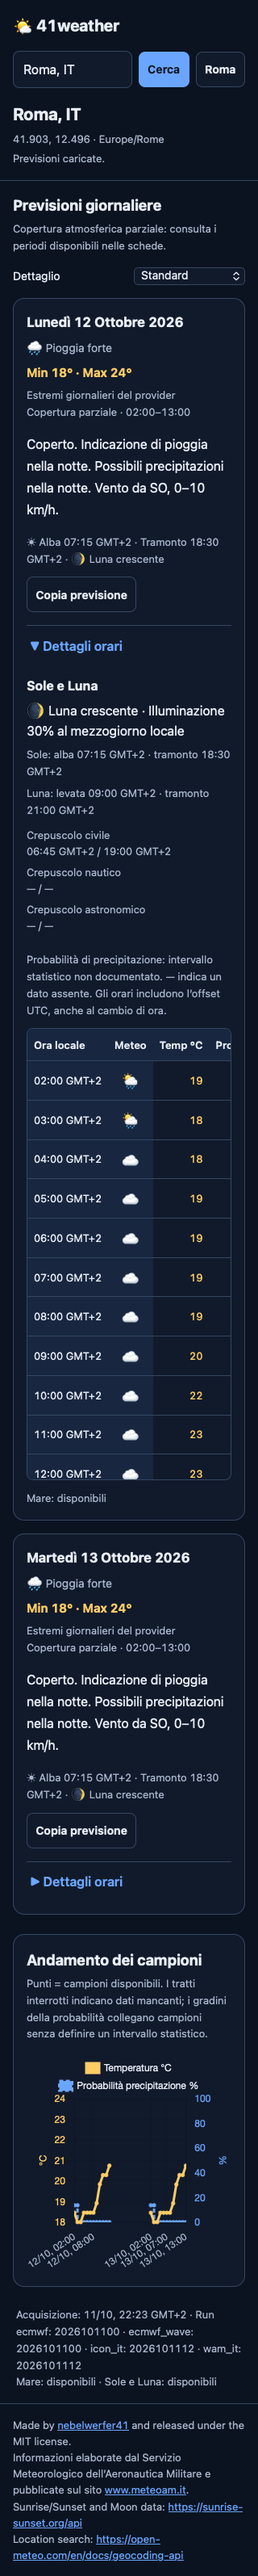
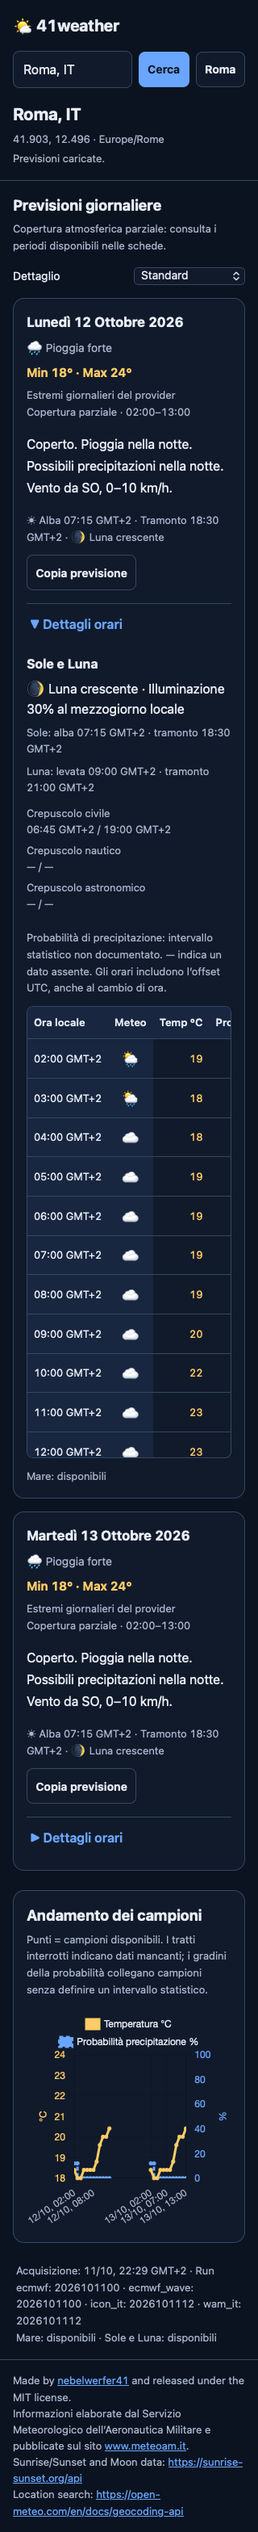
Use direct phenomenon names and combine compatible forecast facts

diff --git a/tests/forecast-text.test.js b/tests/forecast-text.test.js
@@ -51,17 +51,17 @@ test('probability alone does not invent precipitation type, accumulation or dail
 test('all significant phenomena survive every level, including low or absent probability', () => {
     for (const [code, label] of [['10', 'temporale'], ['12', 'pioggia congelantesi'], ['14', 'nebbia'], ['15', 'grandine'], ['16', 'neve'], ['17', 'tromba d’aria'], ['19', 'tempesta di sabbia']]) {
         const s = snapshot([{ icon: code, probability: 0 }]);
-        for (const verbosity of ['title', 'brief', 'standard', 'detailed']) assert.match(text(s, verbosity), new RegExp(label));
+        for (const verbosity of ['title', 'brief', 'standard', 'detailed']) assert.match(text(s, verbosity), new RegExp(label, 'i'));
         assert.doesNotMatch(text(s, 'detailed'), /allerta|raffiche/);
     }
     const low = snapshot([{ icon: '10', probability: 10 }]);
-    assert.match(text(low), /Segnale di temporale/); assert.match(text(low), /probabilità.*bassa/);
+    assert.match(text(low), /Temporale/); assert.match(text(low), /probabilità.*bassa/);
     assert.doesNotMatch(text(snapshot([{ icon: '10' }])), /bassa/);
 });
 test('title retains multiple significant phenomena instead of choosing only one', () => {
     const s = snapshot([{ icon: '10' }, { icon: '15' }, { icon: '16' }]);
     for (const level of ['title', 'brief', 'standard', 'detailed']) {
-        assert.match(text(s, level), /temporale/); assert.match(text(s, level), /grandine/); assert.match(text(s, level), /neve/);
+        assert.match(text(s, level), /temporale/i); assert.match(text(s, level), /grandine/i); assert.match(text(s, level), /neve/i);
     }
 });
 test('stable skies and isolated oscillations do not invent a sustained evolution', () => {
@@ -154,7 +154,7 @@ test('determinism, purity and optional providers cannot change atmospheric evide
     const day = first.values().next().value; const copy = structuredClone(day);
     for (const verbosity of ['title', 'brief', 'standard', 'detailed']) {
         assert.equal(renderForecast(day, { verbosity }), renderForecast(day, { verbosity }));
-        assert.match(renderForecast(day, { verbosity }), /neve/);
+        assert.match(renderForecast(day, { verbosity }), /neve/i);
     }
     assert.deepEqual(day, copy);
     for (const f of day.facts) { assert.ok(f.category && f.reason && f.precision); assert.ok(f.samples.every(h => before.hours.some(s => s.time === h.time))); }
@@ -171,7 +171,7 @@ test('real MeteoAM sample with positive probabilities uses the same normalized m
     assert.ok(s.hours.some(h => h.probability > 0));
     const day = summary(s);
     assert.ok(day.facts.some(f => f.category === 'probability' && f.max >= 30));
-    assert.match(renderForecast(day), /pioggia/);
+    assert.match(renderForecast(day), /pioggia/i);
     assert.match(renderForecast(day, { verbosity: 'detailed' }), /30%/);
 });
 
@@ -200,4 +200,18 @@ test('positive fractional probability is not rounded to zero; temperature matche
     s.days[0].min = -0.5; s.days[0].max = 0.5;
     assert.match(text(s, 'detailed', true), /Probabilità 0,4%/);
     assert.match(text(s, 'detailed', true), /minima -1 °C, massima 1 °C/);
+});
+
+test('phenomena use direct names and group only compatible time and probability facts', () => {
+    const together = snapshot([{ hour: 6, icon: '08' }, { hour: 7, icon: '13' }]);
+    assert.equal(text(together, 'title'), 'Pioggia e foschia.');
+    assert.equal(text(together, 'brief'), 'Pioggia e foschia.');
+    assert.equal(text(together, 'standard'), 'Pioggia e foschia al mattino.');
+    assert.equal(text(together, 'detailed'), 'Pioggia alle 06. Foschia alle 07.');
+    const separate = snapshot([{ hour: 6, icon: '08', probability: 10 }, { hour: 15, icon: '13' }]);
+    assert.match(text(separate), /Pioggia al mattino; probabilità di precipitazione bassa\. Foschia nel pomeriggio\./);
+    for (const level of ['title', 'brief', 'standard', 'detailed']) {
+        assert.doesNotMatch(text(together, level), /indicazione di|segnale di/i);
+        assert.doesNotMatch(text(snapshot([{ icon: '13' }]), level), /indicazione di|segnale di/i);
+    }
 });

diff --git a/forecast-text.js b/forecast-text.js
@@ -194,16 +194,23 @@ export function renderForecast(daySummary, { verbosity = 'standard', includeTemp
     const veils = find('veils');
     const veilText = veils.some(f => f.label === 'velature') ? 'velature' : veils.length ? 'velature parziali' : '';
     const sentences = [];
-    const phenomenonText = f => {
-        let text = f.single ? `segnale di ${f.label}` : `indicazione di ${f.label}${f.intermittent ? ' a tratti' : ''}`;
-        if (level === 'standard') text += ` ${bandText(f.bands)}`;
-        if (level === 'detailed') text += ` ${windowText(f, tz)}`;
-        if (f.probability.length && f.probability.every(p => p < rules.possible) && !['foschia', 'nebbia', 'fumo', 'tempesta di sabbia'].includes(f.label))
-            text += '; probabilità di precipitazione bassa';
+    const phenomenonGroups = new Map();
+    for (const f of phenomena) {
+        const placement = level === 'standard' ? bandText(f.bands) : level === 'detailed' ? windowText(f, tz) : '';
+        const lowProbability = f.probability.length > 0 && f.probability.every(p => p < rules.possible) &&
+            !['foschia', 'nebbia', 'fumo', 'tempesta di sabbia'].includes(f.label);
+        const key = JSON.stringify([placement, f.intermittent, lowProbability]);
+        if (!phenomenonGroups.has(key)) phenomenonGroups.set(key, { labels: [], placement, intermittent: f.intermittent, lowProbability });
+        phenomenonGroups.get(key).labels.push(f.label);
+    }
+    const phenomenonSentences = [...phenomenonGroups.values()].map(group => {
+        const labels = group.labels.length > 1 ? `${group.labels.slice(0, -1).join(', ')} e ${group.labels.at(-1)}` : group.labels[0];
+        let text = `${labels}${group.intermittent ? ' a tratti' : ''}${group.placement ? ` ${group.placement}` : ''}`;
+        if (group.lowProbability) text += '; probabilità di precipitazione bassa';
         return sentence(text);
-    };
+    });
     if (level === 'title') {
-        if (phenomena.length) sentences.push(phenomena.map(phenomenonText).join(' '));
+        if (phenomena.length) sentences.push(phenomenonSentences.join(' '));
         else if (mainProbability.length) sentences.push(sentence(`${mainProbability.some(f => f.level === 'probable') ? 'precipitazioni probabili' : 'possibili precipitazioni'} ${bandText(mainProbability.map(f => f.band))}`));
         else if (evolution.length) sentences.push(sentence(evolution.join(', ')));
         else if (sky) sentences.push(sentence(sky.mixed ? 'cielo variabile' : sky.label));
@@ -212,7 +219,7 @@ export function renderForecast(daySummary, { verbosity = 'standard', includeTemp
         const skyText = [sky ? sky.mixed ? 'cielo variabile' : sky.label : '', veilText].filter(Boolean);
         for (const f of changes) skyText.push(`${f.label}${level === 'standard' || level === 'detailed' ? ` ${bandText(f.bands)}` : ''}`);
         if (skyText.length) sentences.push(sentence([...new Set(skyText)].join(', ')));
-        sentences.push(...phenomena.map(phenomenonText));
+        sentences.push(...phenomenonSentences);
         if (level === 'detailed') {
             for (const f of probability.filter(f => f.max > 0)) {
                 const positives = f.samples.map(h => h.probability).filter(p => validProbability(p) && p > 0);

diff --git a/README.md b/README.md
@@ -97,7 +97,7 @@ Editorial defaults are centralized in `DEFAULT_RULES`; they are our conventions,
 | Wind in Standard | Included when the maximum available speed is ≥10 km/h; Detailed includes any available speed |
 | Variable direction | Circular concentration <0.65; absent directions and calm remain distinct |
 
-Analysis runs across midnight before clipping facts to each local date. Day boundaries account for DST and fractional timezones. Cloud cover, veils, visibility and phenomena stay separate; full/partial veils render as one indication. Isolated significant icons remain visible at all four levels as signals, without duration or official-warning claims. At most one selected increase and one clearing are rendered, rather than one sentence per point. No attenuation or cessation is inferred from the end of the series. Unknown codes do not prevent using temperatures, wind or probability.
+Analysis runs across midnight before clipping facts to each local date. Day boundaries account for DST and fractional timezones. Cloud cover, veils, visibility and phenomena stay separate; full/partial veils render as one indication. Isolated significant icons remain visible at all four levels, named directly (“Pioggia”, “Foschia”, “Temporale”), without duration or official-warning claims. Compatible phenomena are joined (“Pioggia e foschia”); different time windows, intermittency or probability qualifications remain separate. The diagnostic distinction between isolated and repeated occurrences does not add “segnale di” or “indicazione di” to prose. At most one selected increase and one clearing are rendered, rather than one sentence per point. No attenuation or cessation is inferred from the end of the series. Unknown codes do not prevent using temperatures, wind or probability.
 
 Probability is not precipitation amount, intensity, or daily risk. A precipitation type requires a matching hourly icon. Phenomena survive low/absent probability; divergent low probability is stated without inventing a cause. Detailed prose reports positive hourly probabilities only: zero-only bands are omitted, and ranges spanning zero describe their positive values explicitly. Real zeros remain in analysis, tables and chart; missing values remain missing. Text contains no sample/coverage boilerplate. Partial coverage and time limits are shown separately in the card states; copied fallback extrema are labeled “estremi parziali”. No “oggi”/“domani”, random synonyms, LLM, backend, framework or new runtime dependency is used.
 
@@ -121,4 +121,4 @@ node qa/browser.mjs
 
 Optionally set `CHROME_EXECUTABLE` to an installed Chrome executable and `QA_OUTPUT` to a screenshot output directory (default `/tmp/41weather-qa-results`). Tests use real browser rendering and actual Chart.js, deterministic intercepted API responses, the real Napoli fixture and an explicitly synthetic second day. They verify 320/390/768/1440 px, touch emulation and keyboard, table confinement/sticky measurements, resize, node/focus/selection/scroll/open-state preservation, detail without network/new chart, persistence, denied storage/clipboard, date-isolated copy, optional failures and rapid searches with stale replies. They do not contact live APIs during the deterministic run. See [qa/RESULTS.md](qa/RESULTS.md) for the recorded results and limits.
 
-Measured generator weight: **18,447 bytes source / 6,070 bytes gzip** (Node `gzipSync` defaults), within the initial target. The full recorded validation has **28 passing Node tests** plus real Chrome/WebKit QA; Safari itself, physical touch devices and screen readers were not audited.
+Measured generator weight: **19,000 bytes source / 6,223 bytes gzip** (Node `gzipSync` defaults), within the initial target. The full recorded validation has **29 passing Node tests** plus real Chrome/WebKit QA; Safari itself, physical touch devices and screen readers were not audited.

diff --git a/qa/RESULTS.md b/qa/RESULTS.md
@@ -4,7 +4,7 @@ Base verified twice: PR #1 remains open at `186ac92b9a6e4012c115c43bfc8a29aebfbd
 
 ## Executed checks
 
-- `npm test`: **28 passed**, including the original 7 regressions. Pure analysis/rendering tests cover unknown/missing/zero values, significant phenomena and probability disagreement, sustained vs isolated sky changes, observed pauses vs holes, mixed resolutions, midnight, truncated coverage, 23/25-hour days, fractional zones, circular/calm/absent wind, configurable rules, determinism and no snapshot mutation. Editorial regression tests enforce deduplicated veils, no sample boilerplate, no zero probabilities in prose, and positive fractional probabilities without rounding to zero.
+- `npm test`: **29 passed**, including the original 7 regressions. Pure analysis/rendering tests cover unknown/missing/zero values, significant phenomena and probability disagreement, sustained vs isolated sky changes, observed pauses vs holes, mixed resolutions, midnight, truncated coverage, 23/25-hour days, fractional zones, circular/calm/absent wind, configurable rules, determinism and no snapshot mutation. Editorial regression tests enforce deduplicated veils, no sample boilerplate, no zero probabilities in prose, positive fractional probabilities without rounding to zero, and direct phenomenon names grouped only when time/intermittency/probability qualifications match.
 - `node --check` for changed JavaScript modules and QA script; `git diff --check` passed.
 - `qa/browser.mjs`: **passed in Chrome 155.0.8059.40 and Playwright WebKit 27.2** on macOS. Real HTML/CSS layout, native details and actual Chart.js 4.4.1, with deterministic intercepted provider responses.
 - Widths **320, 390, 768, 1440 px**, including a 1440→320 resize. No page-wide horizontal overflow; tables retain their own horizontal scrolling; sticky offsets match measured column widths after resize/opening/marine enrichment. Text is selectable outside the clickable summary, and the chart uses the available content width.
@@ -16,7 +16,7 @@ A real public MeteoAM Napoli payload was acquired on 2026-10-11. The committed f
 
 ## Measured weight and contrast
 
-`forecast-text.js`: **18,447 bytes source**, **6,070 bytes gzip** using Node `gzipSync` defaults. This is within the ≤30 kB source / approximately 5–10 kB gzip target. No runtime dependency was added; Playwright/browser downloads and the test Chart.js copy are in temporary QA storage only.
+`forecast-text.js`: **19,000 bytes source**, **6,223 bytes gzip** using Node `gzipSync` defaults. This is within the ≤30 kB source / approximately 5–10 kB gzip target. No runtime dependency was added; Playwright/browser downloads and the test Chart.js copy are in temporary QA storage only.
 
 Contrast ratios against the card surface `#111a2b`, computed from sRGB relative luminance:
 
